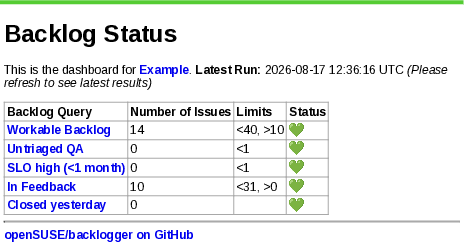
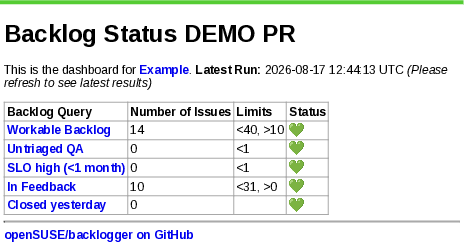
Deploy preview for PR  🛫

Changed region(s): [[0.3922, 0.0868, 0.6336, 0.1736], [0.7241, 0.2603, 0.8147, 0.3182]]

diff --git a/pr-preview/pr-68/index.html b/pr-preview/pr-68/index.html
@@ -32,10 +32,10 @@ a {
 </head>
 <body>
 <main>
-<h1 id="backlog-status">Backlog Status</h1>
+<h1 id="backlog-status-demo-pr">Backlog Status DEMO PR</h1>
 
 <p>This is the dashboard for <a href="http://example.com">Example</a>.
-<strong>Latest Run:</strong> 2026-08-17 12:36:16 UTC
+<strong>Latest Run:</strong> 2026-08-17 12:44:13 UTC
 <em>(Please refresh to see latest results)</em></p>
 
 <table>
